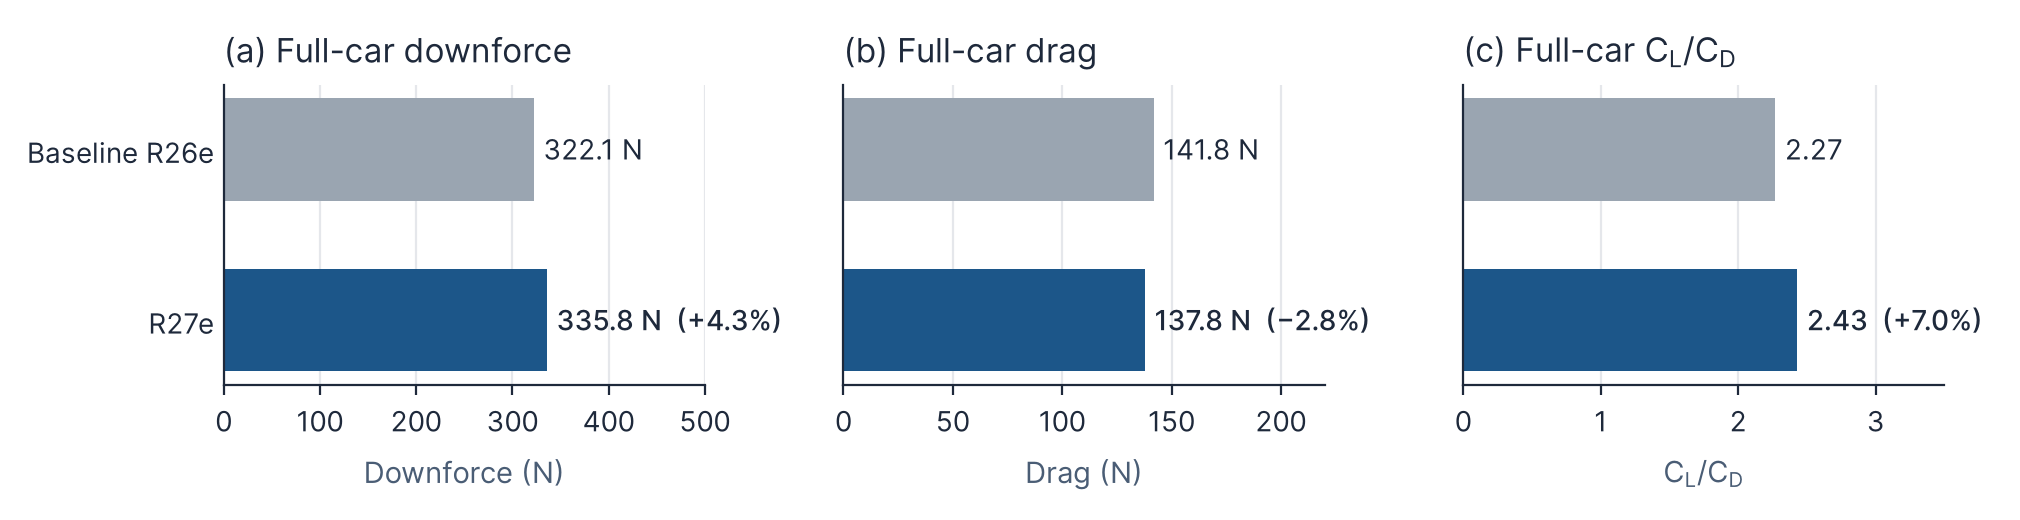
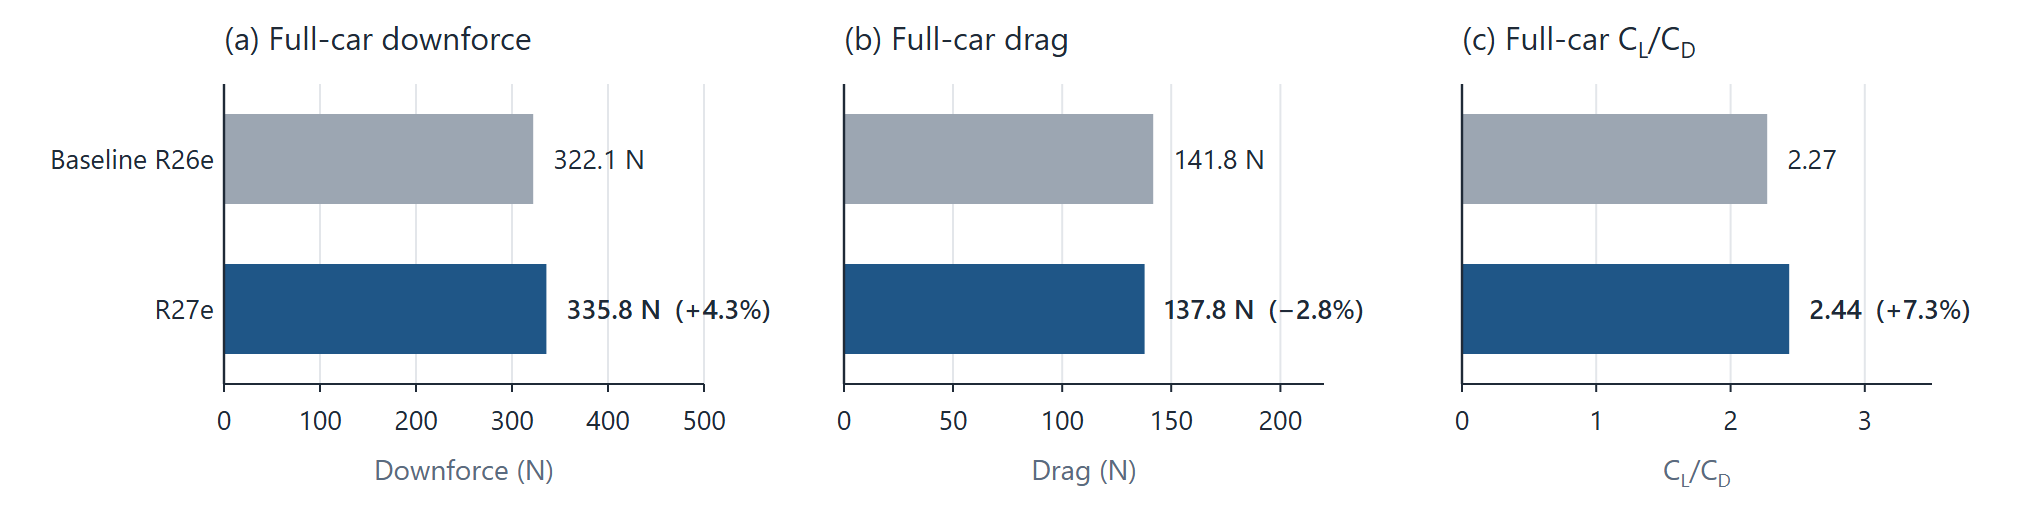
Regenerate Figures 8, 11 and 14 from corrected tables
Panel (c) C_L/C_D changes now match the corrected Tables 2-4.
Charts are drawn from the section-6-2.html tables by
analysis/report-figures/make_comparison_figures.py.

diff --git a/analysis/report-figures/make_comparison_figures.py b/analysis/report-figures/make_comparison_figures.py
@@ -1,0 +1,270 @@
+"""Regenerate the rear-wing and full-car comparison bar charts (Figures 8, 11, 14).
+
+All numbers are read from the tables in section-6-2.html, so the charts always
+match the report:
+    Table 2 -> Figure 8   assets/report-figure-rear-wing-straight.png
+    Table 3 -> Figure 11  assets/report-figure-rear-wing-cornering.png
+    Table 4 -> Figure 14  assets/report-figure-full-car-comparison.png
+
+Percentage changes in C_L/C_D are computed from the downforce and drag columns
+(not from the rounded C_L/C_D column), so they agree with the text.
+
+Each chart is drawn as SVG (pure Python) and rasterised to PNG at 2x with
+headless Microsoft Edge / Chrome.
+
+Usage:  python make_comparison_figures.py [--svg-only]
+"""
+import html, math, os, re, shutil, subprocess, sys, tempfile
+
+ROOT = os.path.normpath(os.path.join(os.path.dirname(os.path.abspath(__file__)), "..", ".."))
+ASSETS = os.path.join(ROOT, "assets")
+
+INK, AXIS_LABEL, GRID = "#1f2a37", "#5a6b80", "#e3e6ea"
+GREY, SELECTED = "#9ca6b2", "#1f5687"
+FONT = "Inter,'Segoe UI',system-ui,sans-serif"
+MINUS = "\u2212"
+
+
+# ------------------------------------------------------------------ table data
+def read_tables():
+    src = open(os.path.join(ROOT, "section-6-2.html"), encoding="utf-8").read()
+    tables = []
+    for t in re.findall(r"<table.*?</table>", src, re.S):
+        rows = []
+        for r in re.findall(r"<tr([^>]*)>(.*?)</tr>", t, re.S):
+            cells = [html.unescape(re.sub(r"<[^>]+>", "", c)).replace("\xa0", " ")
+                     for c in re.findall(r"<t[hd][^>]*>(.*?)</t[hd]>", r[1], re.S)]
+            cells = [" ".join(c.split()) for c in cells]
+            rows.append(("selected-row" in r[0], cells))
+        tables.append(rows)
+    return tables
+
+
+def num(s):
+    return float(s.replace(MINUS, "-").replace("\u2212", "-"))
+
+
+# ------------------------------------------------------------------- formatting
+def signed(v, nd=1, unit=""):
+    s = f"{abs(v):.{nd}f}"
+    return ("+" if v >= 0 else MINUS) + s + unit
+
+
+def esc(s):
+    return s.replace("&", "&amp;").replace("<", "&lt;").replace(">", "&gt;")
+
+
+def nice_step(span, target=4):
+    raw = span / target
+    mag = 10 ** math.floor(math.log10(raw))
+    for m in (1, 2, 2.5, 5, 10):
+        if raw <= m * mag:
+            return m * mag
+    return 10 * mag
+
+
+def tick_fmt(v, step):
+    if abs(v) < 1e-9:
+        v = 0.0
+    nd = 0 if float(step).is_integer() else 1
+    s = f"{abs(v):.{nd}f}"
+    return (MINUS if v < 0 else "") + s
+
+
+# -------------------------------------------------------------------- drawing
+def text(x, y, s, size=14, anchor="start", color=INK, weight=400, raw=False):
+    body = s if raw else esc(s)
+    return (f'<text x="{x:.1f}" y="{y:.1f}" font-size="{size}" text-anchor="{anchor}" '
+            f'fill="{color}" font-weight="{weight}">{body}</text>')
+
+
+def clcd(size):
+    sub = size * 0.68
+    return (f'C<tspan dy="{size*0.25:.1f}" font-size="{sub:.1f}">L</tspan>'
+            f'<tspan dy="{-size*0.25:.1f}">/C</tspan>'
+            f'<tspan dy="{size*0.25:.1f}" font-size="{sub:.1f}">D</tspan>')
+
+
+def panel(x0, x1, top, bottom, values, selected, labels, title, xlabel, n_rows,
+          fixed=None, label_bold_selected=False):
+    """Horizontal bars. values/labels top-to-bottom. Returns svg parts."""
+    out = []
+    lo, hi = min(0, min(values)), max(0, max(values))
+    if fixed:                       # (axis min, axis max, tick step)
+        vmin, vmax, step = fixed
+    else:                           # leave ~30% of the span for the value labels
+        span = (hi - lo) or 1
+        vmax = hi + 0.32 * span if hi > 0 else 0.05 * span
+        vmin = lo - 0.45 * span if lo < 0 else -0.06 * span  # labels sit left of negative bars
+        step = nice_step(vmax - vmin, 5)
+    lo_t = math.ceil(vmin / step - 1e-9) * step
+    hi_t = math.floor(vmax / step + 1e-9) * step
+    X = lambda v: x0 + (v - vmin) / (vmax - vmin) * (x1 - x0)
+
+    # grid + ticks
+    t = lo_t
+    while t <= hi_t + 1e-9:
+        if abs(t) > 1e-9:
+            out.append(f'<line x1="{X(t):.1f}" y1="{top:.1f}" x2="{X(t):.1f}" y2="{bottom:.1f}" stroke="{GRID}" stroke-width="1"/>')
+        out.append(f'<line x1="{X(t):.1f}" y1="{bottom:.1f}" x2="{X(t):.1f}" y2="{bottom+4:.1f}" stroke="{INK}" stroke-width="1"/>')
+        out.append(text(X(t), bottom + 23, tick_fmt(t, step), 13.5, "middle"))
+        t += step
+    # bars
+    pitch = (bottom - top) / n_rows
+    bh = pitch * 0.6
+    for i, (v, lab) in enumerate(zip(values, labels)):
+        yc = top + pitch * (i + 0.5)
+        col = SELECTED if selected[i] else GREY
+        xa, xb = sorted((X(0), X(v)))
+        out.append(f'<rect x="{xa:.1f}" y="{yc-bh/2:.1f}" width="{xb-xa:.1f}" height="{bh:.1f}" fill="{col}"/>')
+        weight = 600 if (label_bold_selected and selected[i]) else 400
+        if v >= 0:
+            out.append(text(X(v) + 10, yc + 5, lab, 13.5, "start", weight=weight))
+        else:
+            out.append(text(X(v) - 10, yc + 5, lab, 13.5, "end", weight=weight))
+    # zero line and spines
+    out.append(f'<line x1="{X(0):.1f}" y1="{top:.1f}" x2="{X(0):.1f}" y2="{bottom:.1f}" stroke="{INK}" stroke-width="1.2"/>')
+    out.append(f'<line x1="{x0:.1f}" y1="{top:.1f}" x2="{x0:.1f}" y2="{bottom:.1f}" stroke="{INK}" stroke-width="1"/>')
+    out.append(f'<line x1="{x0:.1f}" y1="{bottom:.1f}" x2="{x1:.1f}" y2="{bottom:.1f}" stroke="{INK}" stroke-width="1"/>')
+    out.append(text(x0, top - 17, title, 16, raw=True))
+    out.append(text((x0 + x1) / 2, bottom + 48, xlabel, 14, "middle", AXIS_LABEL, raw=True))
+    return out
+
+
+def category_labels(x, top, bottom, lines_list):
+    out = []
+    pitch = (bottom - top) / len(lines_list)
+    for i, lines in enumerate(lines_list):
+        yc = top + pitch * (i + 0.5)
+        lh = 23.5
+        y = yc - lh * (len(lines) - 1) / 2 + 5
+        for j, l in enumerate(lines):
+            out.append(text(x, y + j * lh, l, 13.5, "end"))
+    return out
+
+
+def svg(w, h, parts, title):
+    return (f'<svg xmlns="http://www.w3.org/2000/svg" viewBox="0 0 {w} {h}" width="{w}" height="{h}" '
+            f'font-family="{FONT}"><title>{esc(title)}</title>'
+            f'<rect width="{w}" height="{h}" fill="#ffffff"/>\n' + "\n".join(parts) + "\n</svg>\n")
+
+
+# ------------------------------------------------------------- figure builders
+def delta_figure(rows, label_split, H, title, rw_col_name):
+    head = rows[0][1]
+    ci = {name: i for i, name in enumerate(head)}
+    df, dr, rw = ci["Full-car downforce (N)"], ci["Full-car drag (N)"], ci[rw_col_name]
+    data = rows[1:]
+    base = data[0][1]
+    assert "baseline" in base[0].lower(), base[0]
+    configs = [r for r in data[1:] if not r[0]] + [r for r in data[1:] if r[0]]  # selected last
+    b_ratio = num(base[df]) / num(base[dr])
+    rw_d = [num(c[rw]) - num(base[rw]) for _, c in configs]
+    df_d = [num(c[df]) - num(base[df]) for _, c in configs]
+    pct = [(num(c[df]) / num(c[dr]) / b_ratio - 1) * 100 for _, c in configs]
+    sel = [s for s, _ in configs]
+    names = [label_split(c[0].replace(" (selected)", "")) for _, c in configs]
+
+    W = 1010
+    top, bottom = 42, H - 68
+    xs = [(137, 412), (429, 703), (720, 995)]
+    P = category_labels(132, top, bottom, names)
+    P += panel(*xs[0], top, bottom, rw_d, sel, [signed(v, 1, " N") for v in rw_d],
+               "(a) Rear-wing downforce", "Change vs R26 baseline (N)", len(configs))
+    P += panel(*xs[1], top, bottom, df_d, sel, [signed(v, 1, " N") for v in df_d],
+               "(b) Full-car downforce", "Change vs R26 baseline (N)", len(configs))
+    P += panel(*xs[2], top, bottom, pct, sel, [signed(v, 1, "%") for v in pct],
+               "(c) Full-car " + clcd(16), "Change vs R26 baseline (%)", len(configs))
+    print(f"  {title}:")
+    for n, a, b, c in zip(names, rw_d, df_d, pct):
+        print(f"    {' '.join(n):48s} RW {a:+6.1f} N   FC {b:+6.1f} N   CL/CD {c:+5.2f}%")
+    return svg(W, H, P, title)
+
+
+def full_car_figure(rows):
+    head = rows[0][1]
+    ci = {name: i for i, name in enumerate(head)}
+    df, dr = ci["Full-car downforce (N)"], ci["Full-car drag (N)"]
+    base, new = rows[1][1], rows[2][1]
+    assert rows[2][0], "second row should be the selected R27e row"
+    vals_df = [num(base[df]), num(new[df])]
+    vals_dr = [num(base[dr]), num(new[dr])]
+    ratio = [d / r for d, r in zip(vals_df, vals_dr)]
+    ch = lambda a: (a[1] / a[0] - 1) * 100
+    sel = [False, True]
+    W, H = 1010, 260
+    top, bottom = 42, 192
+    P = category_labels(107, top, bottom, [[base[0]], [new[0]]])
+    P += panel(112, 352, top, bottom, vals_df, sel,
+               [f"{vals_df[0]:.1f} N", f"{vals_df[1]:.1f} N ({signed(ch(vals_df), 1, '%')})"],
+               "(a) Full-car downforce", "Downforce (N)", 2, fixed=(0, 500, 100), label_bold_selected=True)
+    P += panel(422, 662, top, bottom, vals_dr, sel,
+               [f"{vals_dr[0]:.1f} N", f"{vals_dr[1]:.1f} N ({signed(ch(vals_dr), 1, '%')})"],
+               "(b) Full-car drag", "Drag (N)", 2, fixed=(0, 220, 50), label_bold_selected=True)
+    P += panel(731, 966, top, bottom, ratio, sel,
+               [f"{ratio[0]:.2f}", f"{ratio[1]:.2f} ({signed(ch(ratio), 1, '%')})"],
+               "(c) Full-car " + clcd(16), clcd(14), 2, fixed=(0, 3.5, 1), label_bold_selected=True)
+    print(f"  Figure 14: CL/CD {ratio[0]:.3f} -> {ratio[1]:.3f} ({ch(ratio):+.2f}%), "
+          f"downforce {ch(vals_df):+.2f}%, drag {ch(vals_dr):+.2f}%")
+    return svg(W, H, P, "Full-car comparison of the baseline R26e and the R27e")
+
+
+def split_straight(name):            # "3rd 70°, slot 20.5 mm" -> two lines
+    a, b = name.split(", slot")
+    return [a + ",", "slot" + b]
+
+
+def split_cornering(name):           # "250 mm, 39° / 115 mm, 67° / 21 mm" -> three lines
+    a, b, c = [p.strip() for p in name.split("/")]
+    return ["2nd " + a, "3rd " + b, "slot " + c]
+
+
+# ----------------------------------------------------------------- rasterising
+def find_browser():
+    for p in [r"C:\Program Files (x86)\Microsoft\Edge\Application\msedge.exe",
+              r"C:\Program Files\Microsoft\Edge\Application\msedge.exe",
+              r"C:\Program Files\Google\Chrome\Application\chrome.exe",
+              shutil.which("msedge") or "", shutil.which("google-chrome") or "", shutil.which("chromium") or ""]:
+        if p and os.path.exists(p):
+            return p
+    return None
+
+
+def rasterise(svg_text, w, h, out_png, browser, tmp):
+    src = os.path.join(tmp, os.path.basename(out_png).replace(".png", ".svg"))
+    open(src, "w", encoding="utf-8").write(svg_text)
+    profile = os.path.join(tmp, "profile")
+    cmd = [browser, "--headless=new", "--disable-gpu", "--hide-scrollbars",
+           f"--user-data-dir={profile}", "--force-device-scale-factor=2",
+           f"--window-size={w},{h}", f"--screenshot={out_png}", "file:///" + src.replace("\\", "/")]
+    subprocess.run(cmd, timeout=60, stdout=subprocess.DEVNULL, stderr=subprocess.DEVNULL)
+    print("  wrote", out_png)
+
+
+def main():
+    t = read_tables()
+    straight, corner, full = t[0], t[1], t[2]
+    figs = [
+        ("report-figure-rear-wing-straight.png", 1010, 460,
+         delta_figure(straight, split_straight, 460, "Figure 8", "Rear-wing downforce (N)")),
+        ("report-figure-rear-wing-cornering.png", 1010, 540,
+         delta_figure(corner, split_cornering, 540, "Figure 11", "Rear-wing downforce (N)")),
+        ("report-figure-full-car-comparison.png", 1010, 260, full_car_figure(full)),
+    ]
+    tmp = tempfile.mkdtemp(prefix="report-figs-")
+    if "--svg-only" in sys.argv:
+        for name, w, h, s in figs:
+            p = os.path.join(tmp, name.replace(".png", ".svg"))
+            open(p, "w", encoding="utf-8").write(s)
+            print("  wrote", p)
+        return
+    browser = find_browser()
+    if not browser:
+        sys.exit("No Edge/Chrome found; run with --svg-only and convert the SVGs manually.")
+    for name, w, h, s in figs:
+        rasterise(s, w, h, os.path.join(ASSETS, name), browser, tmp)
+    shutil.rmtree(tmp, ignore_errors=True)
+
+
+if __name__ == "__main__":
+    main()
